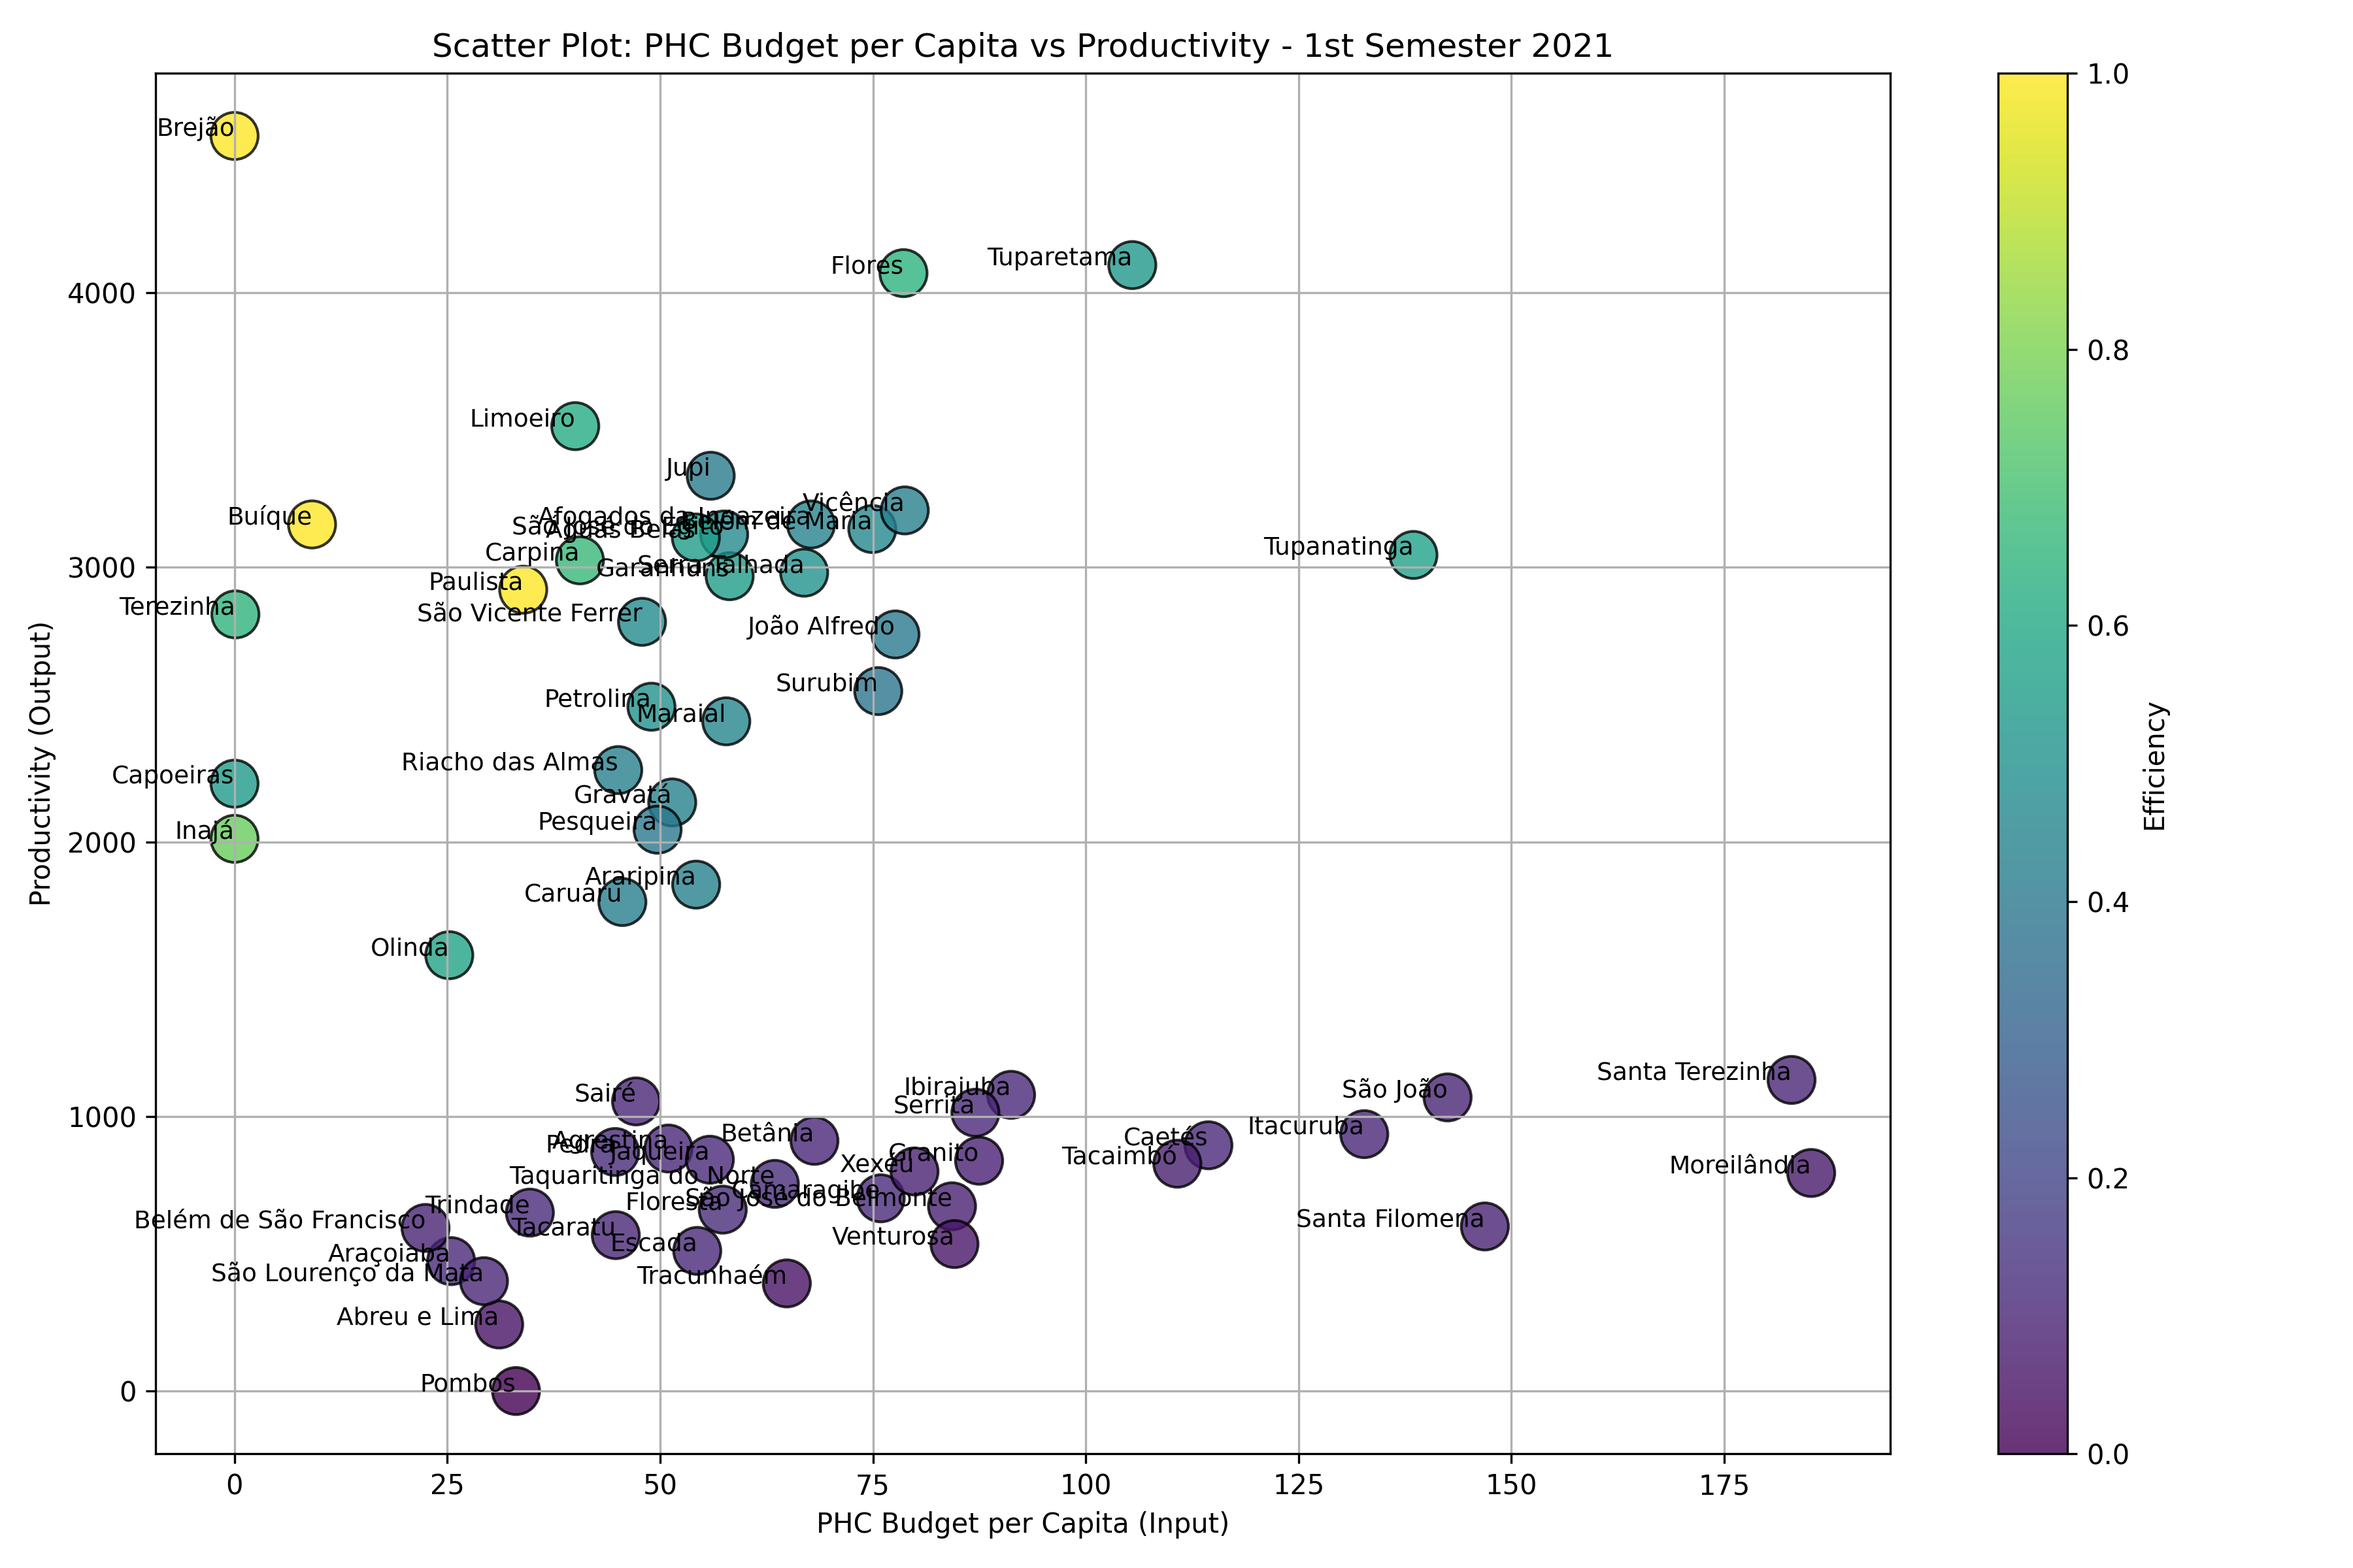
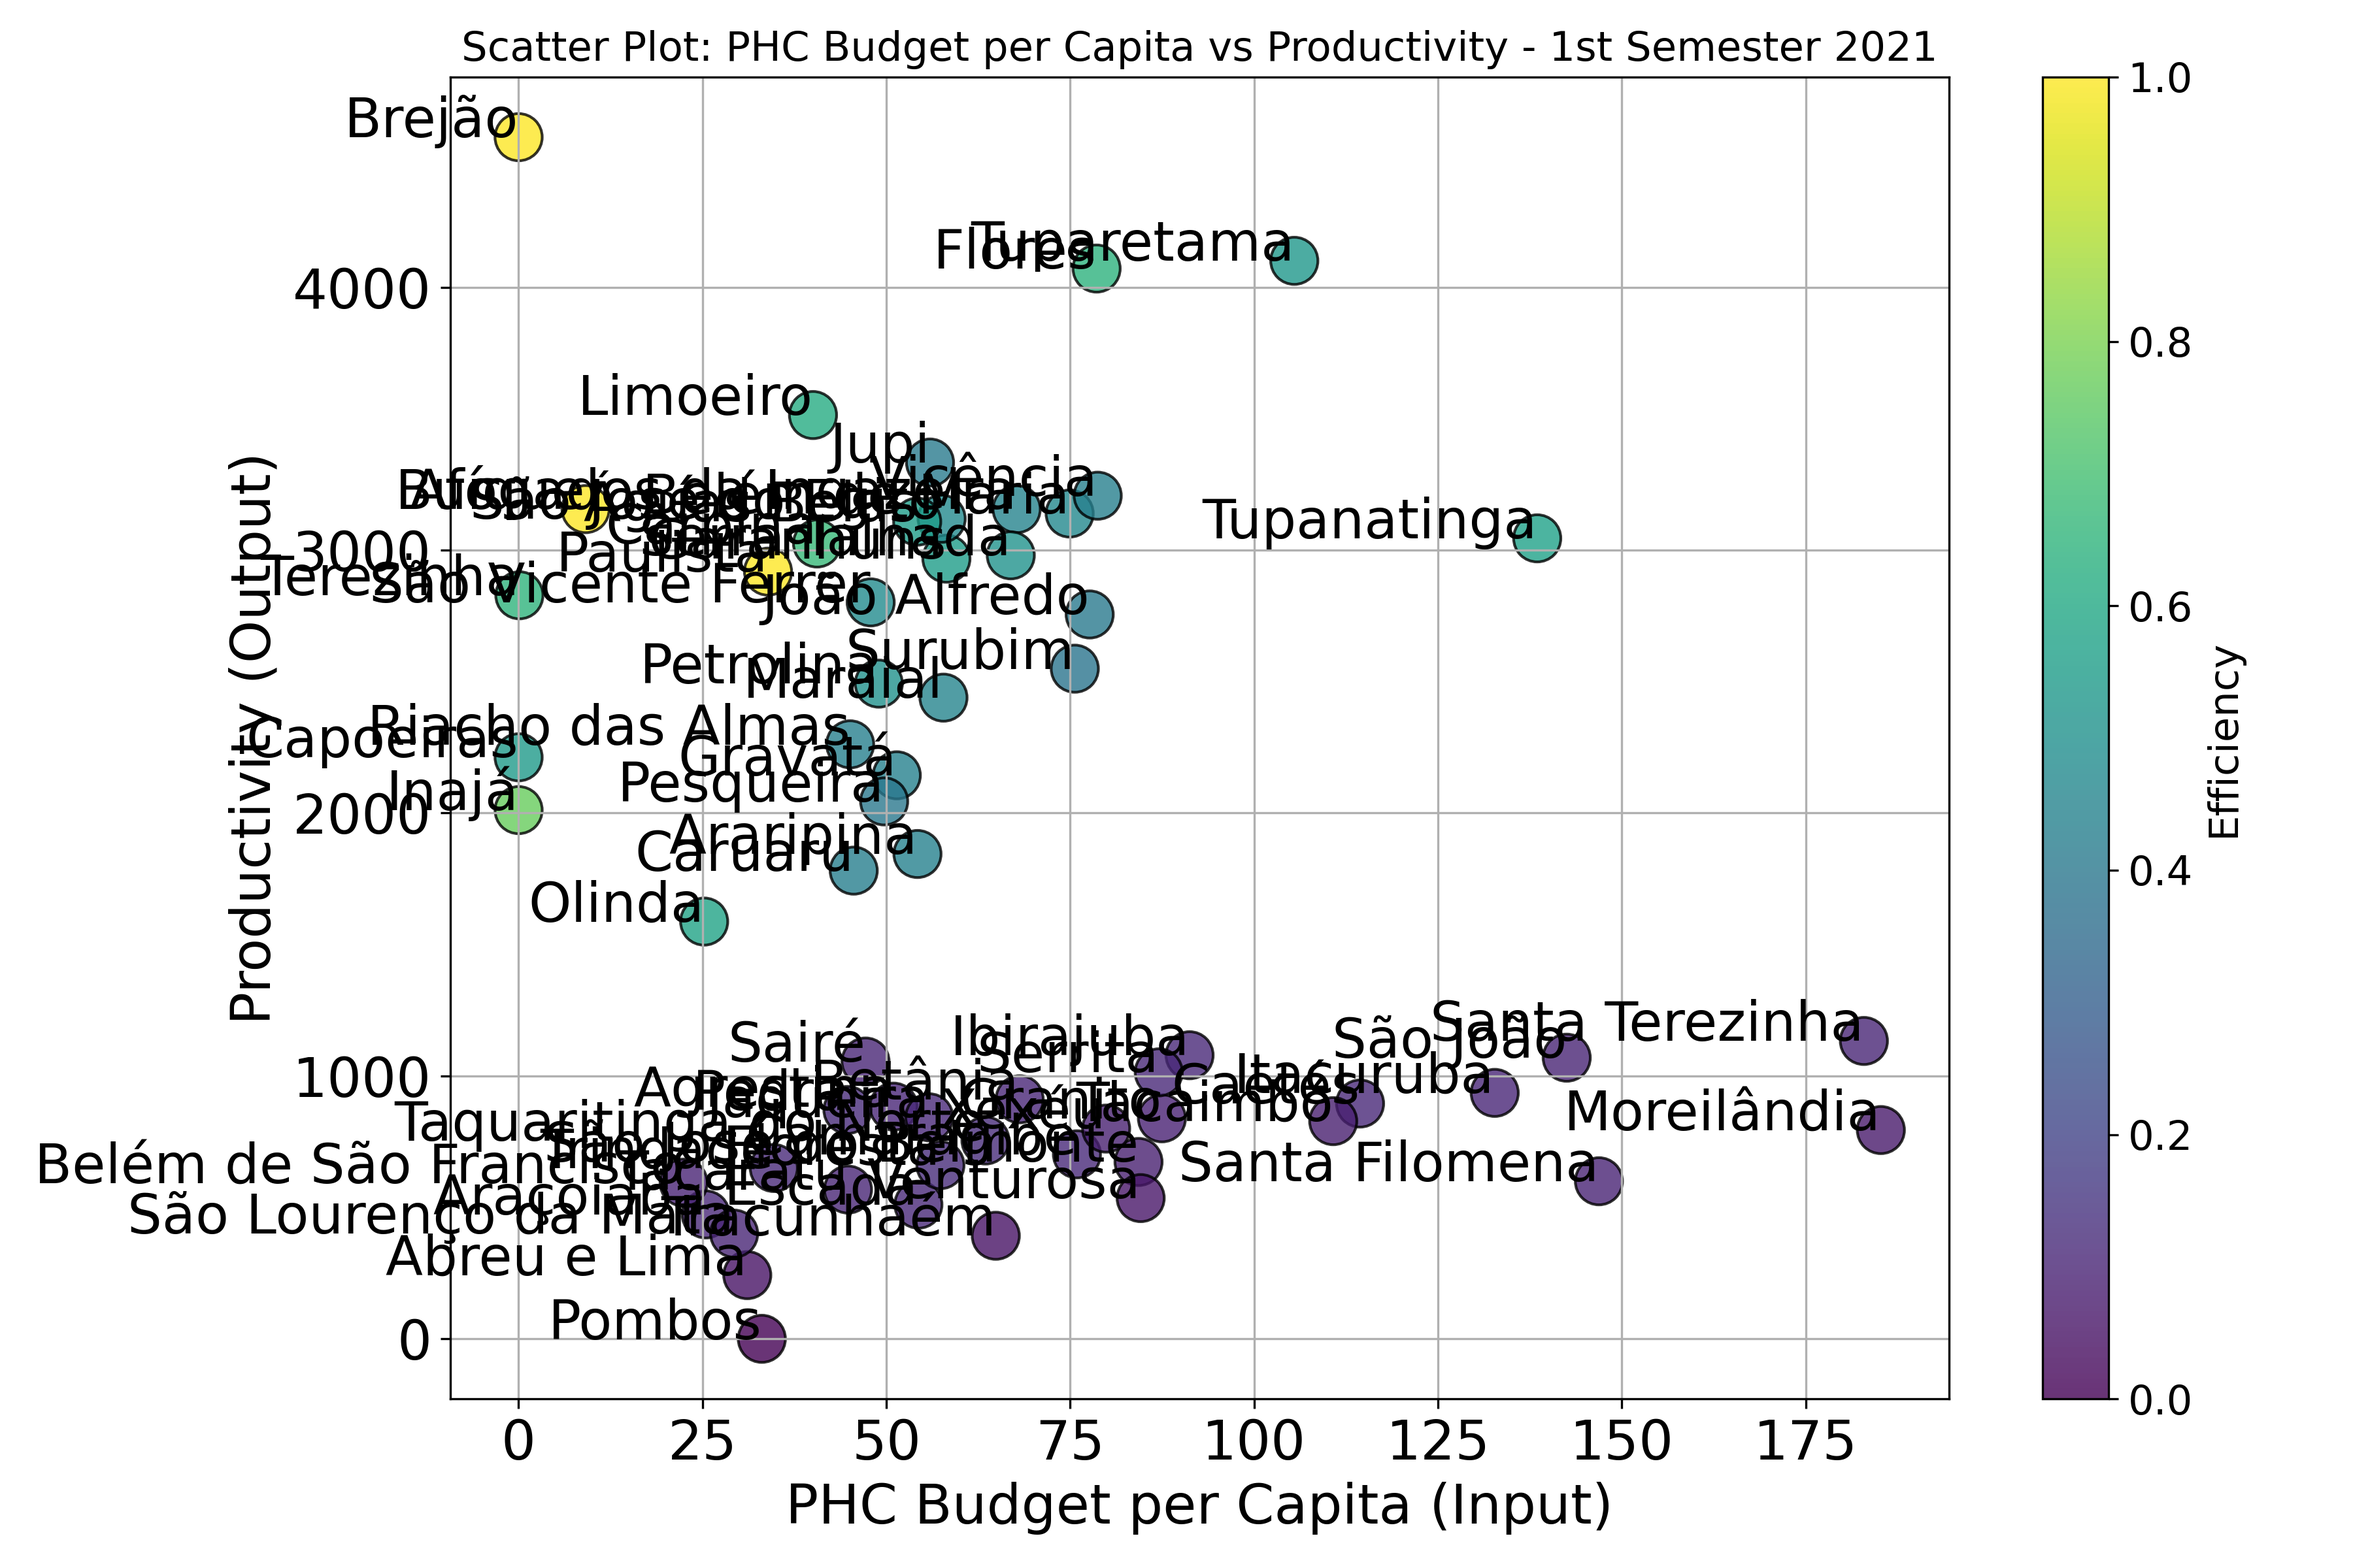
feat: melhorando a visualização dos gráficos

diff --git a/src/dea_indicator_ranked_all.py b/src/dea_indicator_ranked_all.py
@@ -11,9 +11,14 @@ RANK = 10
 
 os.makedirs(OUTPUT_DIR, exist_ok=True)
 
-# Layout fixo 3 linhas x 2 colunas
-fig, axes = plt.subplots(3, 2, figsize=(16, 14))
-axes = axes.flatten()
+# Layout vertical: um gráfico abaixo do outro (uma coluna, uma linha por ano).
+# Como o eixo X só tem 3 pontos (bimestres), cada gráfico pode ser mais baixo E
+# mais estreito nas laterais — o espaço economizado vai para legendas maiores.
+# As legendas Top/Bottom ficam lado a lado (em vez de empilhadas) para caber
+# na altura menor de cada gráfico.
+fig, axes = plt.subplots(len(YEARS), 1, figsize=(14, 4.6 * len(YEARS)))
+axes = np.atleast_1d(axes)
+fig.subplots_adjust(left=0.06, right=0.34, hspace=0.9)
 
 for i, year in enumerate(YEARS):
     print(f"Querying year {year}...")
@@ -54,11 +59,12 @@ for i, year in enumerate(YEARS):
             label=city
         )
 
-    ax.set_xlabel("Bimester")
-    ax.set_ylabel("Efficiency")
+    ax.set_xlabel("Bimester", fontsize=16)
+    ax.set_ylabel("Efficiency", fontsize=16)
     ax.set_ylim(0, 1)
     ax.set_xticks([1, 2, 3])
-    ax.set_title(f"Efficiency by City - 1st Semester {year}")
+    ax.set_title(f"Efficiency by City - 1st Semester {year}", fontsize=19)
+    ax.tick_params(axis="both", labelsize=14)
     ax.grid(True)
 
     # 🔹 Separar Top e Bottom corretamente
@@ -70,14 +76,16 @@ for i, year in enumerate(YEARS):
     bottom_handles = handles[-RANK:]
     bottom_labels = labels[-RANK:]
 
+    # 🔹 Legendas lado a lado (não empilhadas), alinhadas ao topo, para caber
+    # na altura menor do gráfico achatado.
     legend1 = ax.legend(
         top_handles,
         top_labels,
         title=f"Top {RANK}",
         loc="upper left",
-        bbox_to_anchor=(1.02, 1),
-        fontsize=7,
-        title_fontsize=9,
+        bbox_to_anchor=(1.05, 1),
+        fontsize=13,
+        title_fontsize=15,
         frameon=True
     )
     ax.add_artist(legend1)
@@ -86,18 +94,13 @@ for i, year in enumerate(YEARS):
         bottom_handles,
         bottom_labels,
         title=f"Bottom {RANK}",
-        loc="lower left",
-        bbox_to_anchor=(1.02, 0),
-        fontsize=7,
-        title_fontsize=9,
+        loc="upper left",
+        bbox_to_anchor=(1.85, 1),
+        fontsize=13,
+        title_fontsize=15,
         frameon=True
     )
 
-# 🔹 Remover subplot vazio se existir
-if len(YEARS) < len(axes):
-    fig.delaxes(axes[-1])
-
-plt.tight_layout(rect=[0, 0, 0.85, 1])
 filename = os.path.join(OUTPUT_DIR, "efficiency_all_years.png")
 plt.savefig(filename, dpi=300, bbox_inches="tight")
 plt.close()

diff --git a/src/correlation.py b/src/correlation.py
@@ -11,18 +11,20 @@ RANK = 30
 
 os.makedirs(OUTPUT_DIR, exist_ok=True)
 
-# Column renaming for English labels
+# Column renaming for English labels.
+# Rótulos mais longos quebrados em duas linhas para não sobrepor/estourar
+# a largura das células com a fonte maior (20).
 rename_cols = {
-    "apsPerCapita": "PHC Budget per Capita",
-    "teamsDensity": "Team Density",
-    "healthCareVisitsPerThousandReais": "Health Visits per 1k BRL",
+    "apsPerCapita": "PHC Budget\nper Capita",
+    "teamsDensity": "Team\nDensity",
+    "healthCareVisitsPerThousandReais": "Health Visits\nper 1k BRL",
     "cobertura": "Coverage (%)",
     "productivity": "Productivity",
     "efficiency": "Efficiency"
 }
 
 for year in YEARS:
-    print(f"🔎 Querying year {year}...")
+    print(f"Querying year {year}...")
 
     response = requests.get(BASE_URL.format(year=year, rank=RANK))
     response.raise_for_status()
@@ -40,18 +42,23 @@ for year in YEARS:
     df_corr = df[cols].rename(columns=rename_cols)
 
     # Correlation heatmap
-    plt.figure(figsize=(10, 7))
-    sns.heatmap(
+    plt.figure(figsize=(18, 13))
+    ax = sns.heatmap(
         df_corr.corr(),
         annot=True,
         cmap="viridis",   # Updated colormap
         vmin=-1,
         vmax=1,
         fmt=".2f",
-        linewidths=0.5
+        linewidths=0.5,
+        annot_kws={"size": 20}
     )
 
-    plt.title(f"Correlation between Inputs, Outputs and Efficiency - 1st Semester {year}")
+    ax.set_xticklabels(ax.get_xticklabels(), fontsize=20, rotation=0, ha="center")
+    ax.set_yticklabels(ax.get_yticklabels(), fontsize=20, rotation=0)
+    ax.figure.axes[-1].tick_params(labelsize=20)  # ticks da barra de cores
+
+    plt.title(f"Correlation between Inputs, Outputs and Efficiency - 1st Semester {year}", fontsize=20)
     plt.tight_layout()
 
     filename = os.path.join(OUTPUT_DIR, f"correlation_{year}.png")

diff --git a/src/dea_indicator_ranked_scatter.py b/src/dea_indicator_ranked_scatter.py
@@ -5,7 +5,11 @@ import matplotlib.pyplot as plt
 
 BASE_URL = "http://localhost:8080/api/dea/indicators/first-semester/ranked?year={year}&rank={rank}"
 YEARS = [2021, 2022, 2023, 2024, 2025]
-OUTPUT_DIR = "resources/v2/scatter"
+# Caminho ancorado na localização do próprio script (não na pasta de onde ele
+# é executado), para sempre salvar na pasta resources/ que já existe na raiz
+# do projeto, mesmo se o script for rodado de dentro de src/.
+SCRIPT_DIR = os.path.dirname(os.path.abspath(__file__))
+OUTPUT_DIR = os.path.join(SCRIPT_DIR, "..", "resources", "v2", "scatter")
 RANK = 30
 
 os.makedirs(OUTPUT_DIR, exist_ok=True)
@@ -41,14 +45,18 @@ for year in YEARS:
             row["apsPerCapita"],
             row["productivity"],
             row["cityName"],
-            fontsize=9,
+            fontsize=20,
             ha="right"
         )
 
-    plt.colorbar(scatter, label="Efficiency")
-    plt.xlabel("PHC Budget per Capita (Input)")
-    plt.ylabel("Productivity (Output)")
-    plt.title(f"Scatter Plot: PHC Budget per Capita vs Productivity - 1st Semester {year}")
+    cbar = plt.colorbar(scatter, label="Efficiency")
+    cbar.set_label("Efficiency", fontsize=15)
+    cbar.ax.tick_params(labelsize=15)
+    plt.xlabel("PHC Budget per Capita (Input)", fontsize=20)
+    plt.ylabel("Productivity (Output)", fontsize=20)
+    plt.title(f"Scatter Plot: PHC Budget per Capita vs Productivity - 1st Semester {year}", fontsize=15)
+    plt.xticks(fontsize=20)
+    plt.yticks(fontsize=20)
     plt.grid(True)
     plt.tight_layout()
 

diff --git a/src/maps_all.py b/src/maps_all.py
@@ -52,7 +52,7 @@ for i, year in enumerate(YEARS):
         vmin=0,
         vmax=1
     )
-    axes[i].set_title(f"Efficiency by City {year}", fontsize=14)
+    axes[i].set_title(f"Efficiency by City in {year}", fontsize=20)
     axes[i].axis("off")
 
     mean_val = df_eff["efficiency"].mean()
@@ -69,7 +69,7 @@ for i, year in enumerate(YEARS):
     axes[i].text(
         0.02, 0.05, stats_text,
         transform=axes[i].transAxes,
-        fontsize=13,
+        fontsize=20,
         fontweight="bold",
         va="bottom",
         ha="left",
@@ -80,7 +80,8 @@ for i, year in enumerate(YEARS):
 cbar_ax = fig.add_axes([0.25, 0.92, 0.5, 0.01])
 sm = plt.cm.ScalarMappable(cmap=cmap, norm=plt.Normalize(vmin=vmin, vmax=vmax))
 cbar = fig.colorbar(sm, cax=cbar_ax, orientation="horizontal")
-cbar.set_label("DEA Efficiency", fontsize=11)
+cbar.set_label("DEA Efficiency", fontsize=20)
+cbar.ax.tick_params(labelsize=12)
 
 plt.tight_layout(rect=[0, 0, 1, 0.9])
 plt.savefig(OUTPUT_FILE, dpi=300)
